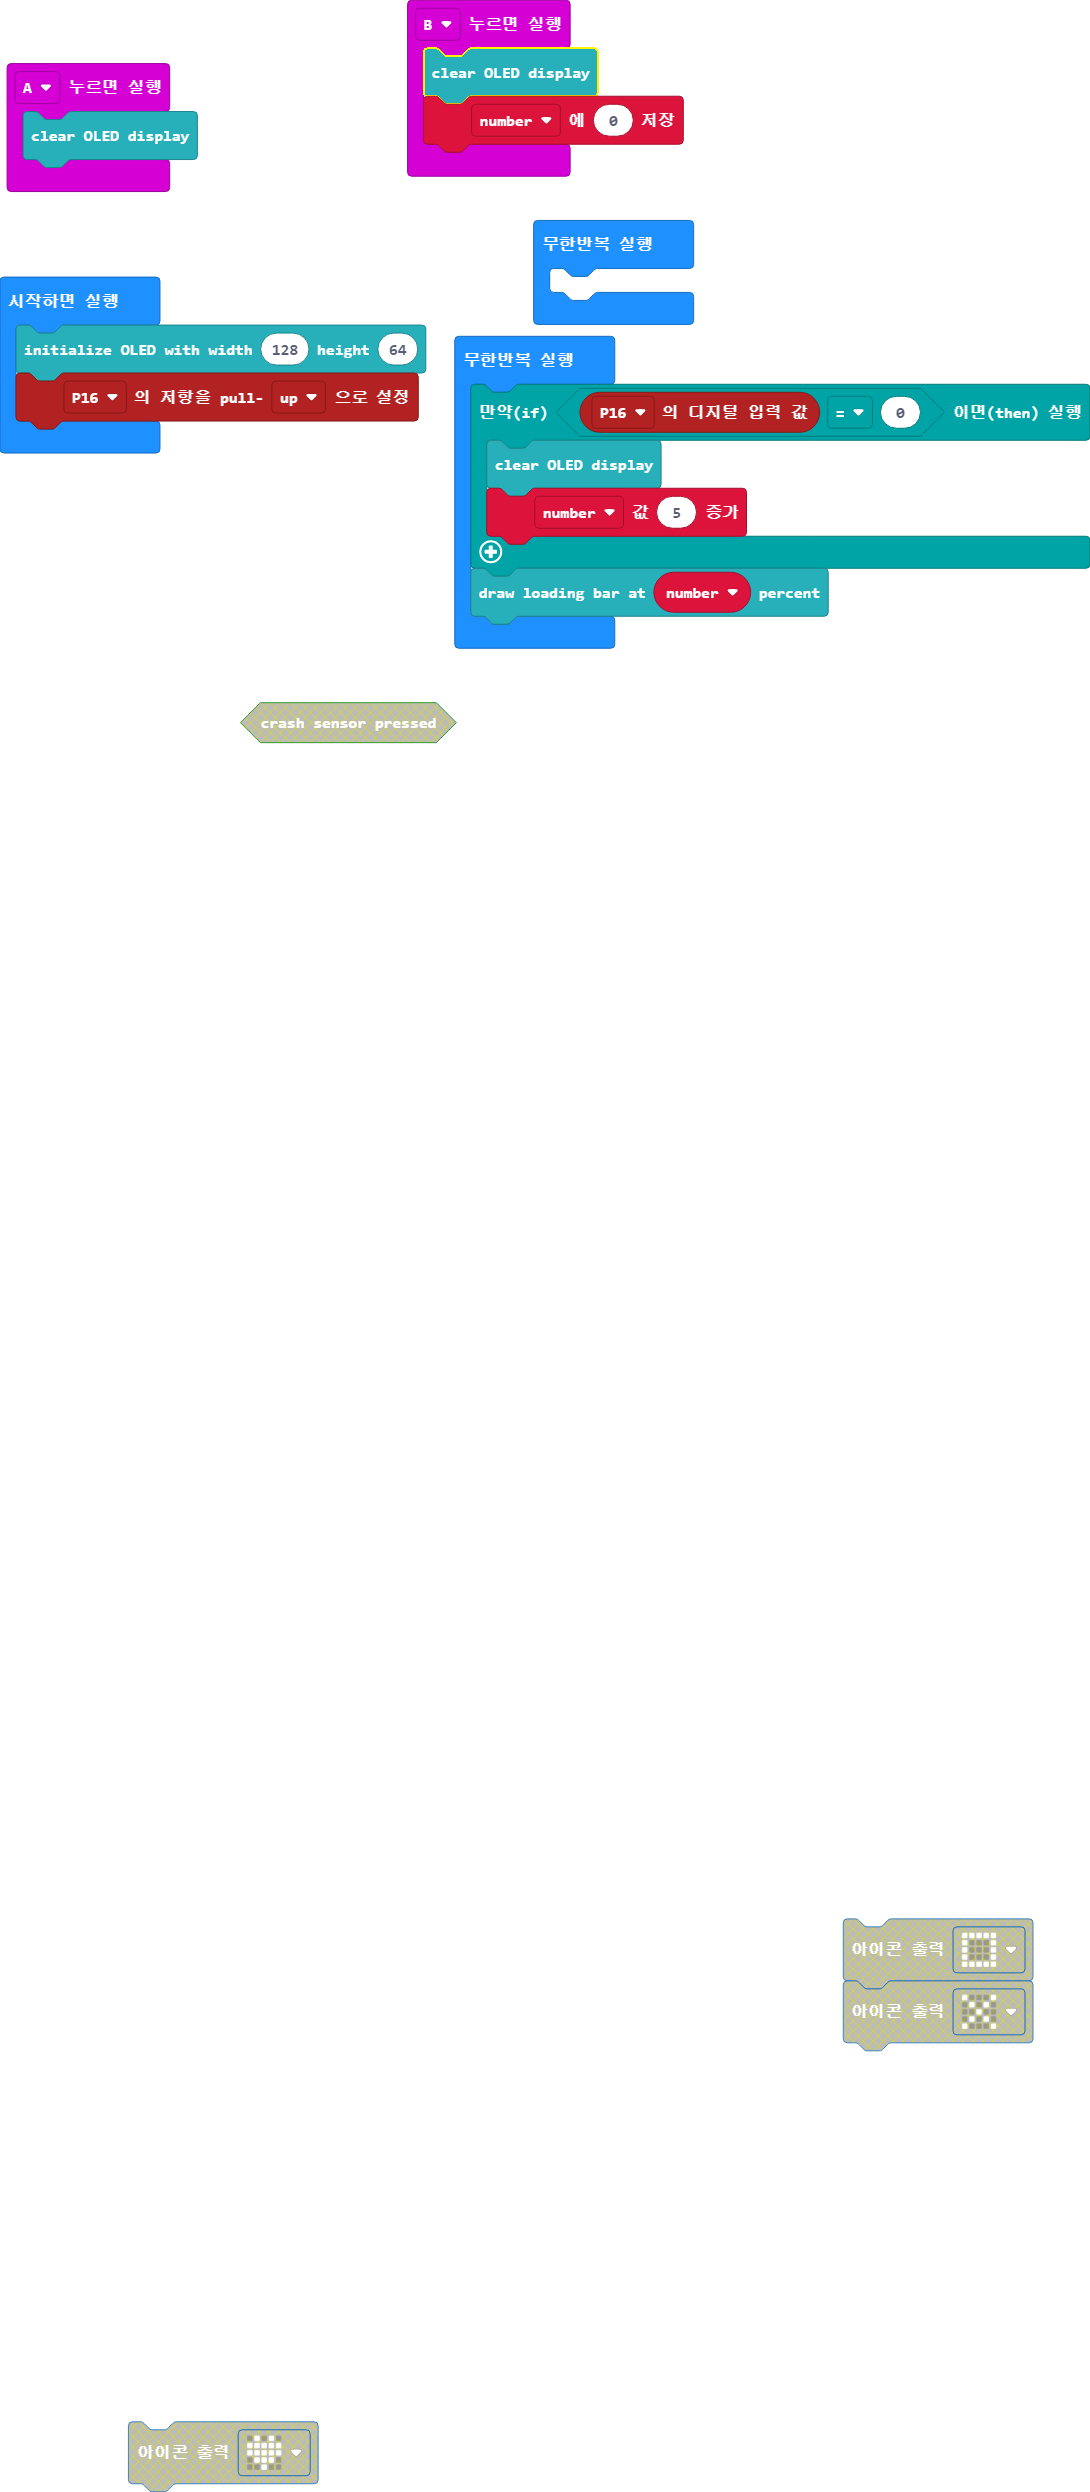
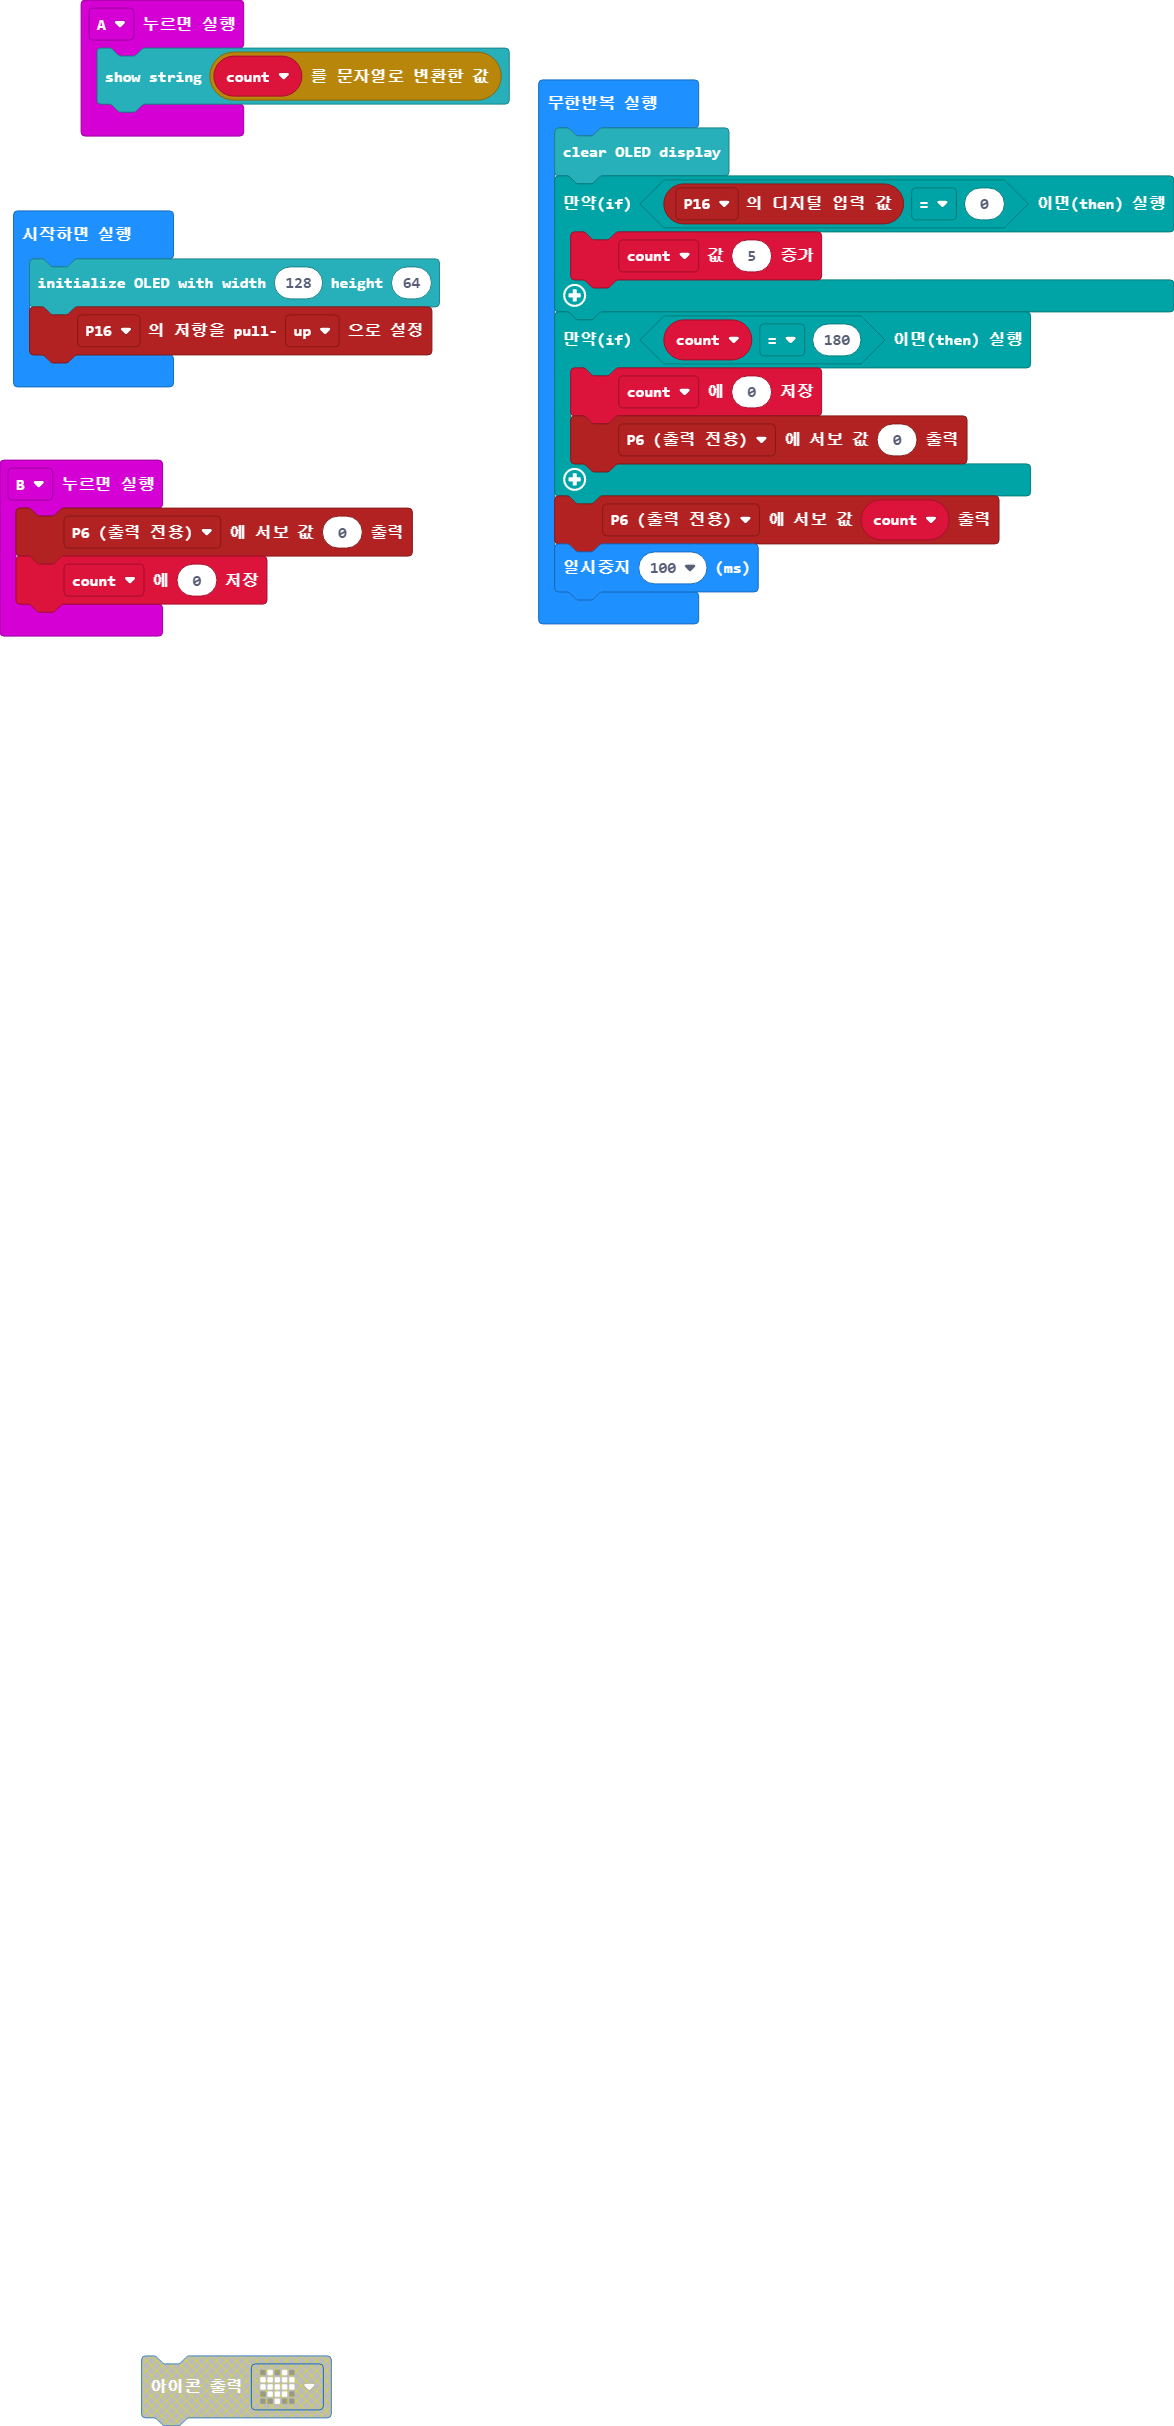
main.blocks, main.ts 업데이트하기

diff --git a/main.ts b/main.ts
@@ -1,20 +1,22 @@
 input.onButtonPressed(Button.A, function () {
-    OLED.clear()
+    OLED.writeStringNewLine(convertToText(count))
 })
 input.onButtonPressed(Button.B, function () {
-    OLED.clear()
-    number = 0
+    pins.servoWritePin(AnalogPin.P6, 0)
+    count = 0
 })
-let number = 0
+let count = 0
 OLED.init(128, 64)
 pins.setPull(DigitalPin.P16, PinPullMode.PullUp)
 basic.forever(function () {
-	
-})
-basic.forever(function () {
+    OLED.clear()
     if (pins.digitalReadPin(DigitalPin.P16) == 0) {
-        OLED.clear()
-        number += 5
+        count += 5
     }
-    OLED.drawLoading(number)
+    if (count == 180) {
+        count = 0
+        pins.servoWritePin(AnalogPin.P6, 0)
+    }
+    pins.servoWritePin(AnalogPin.P6, count)
+    basic.pause(100)
 })
